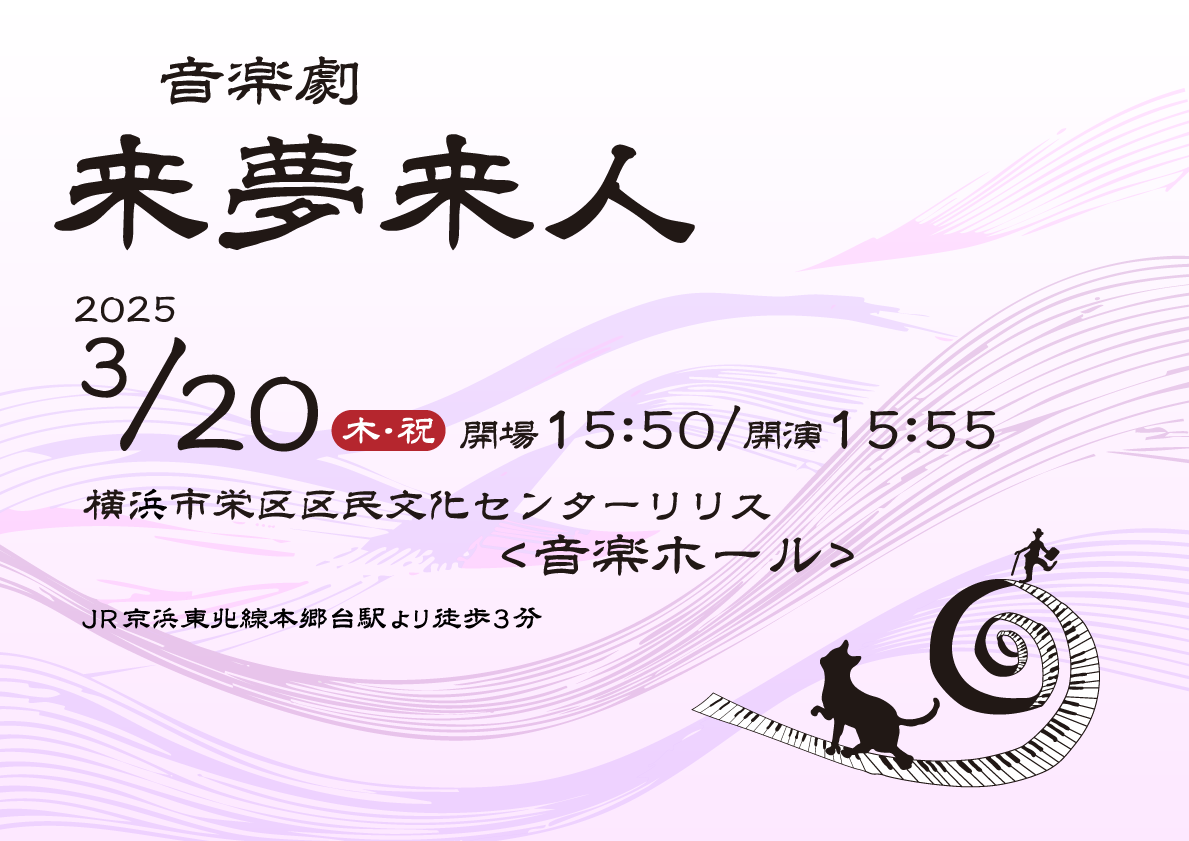
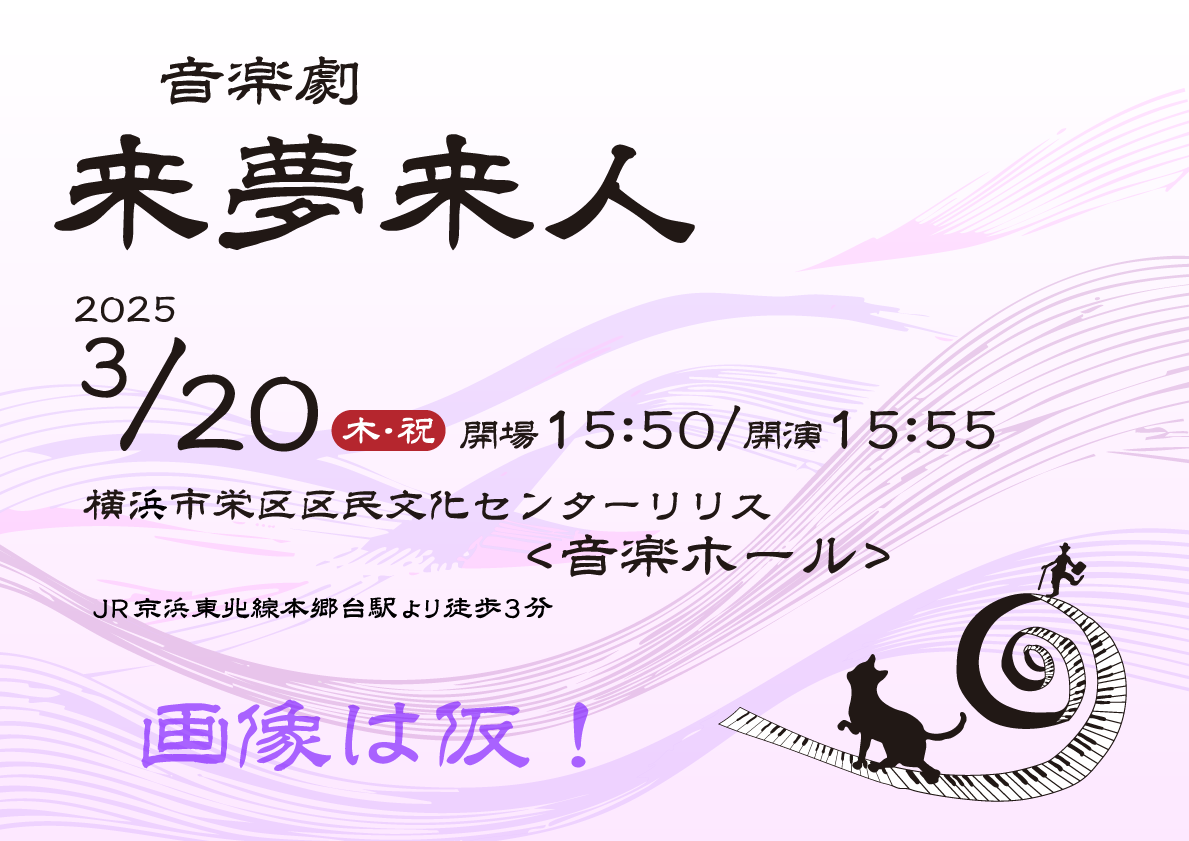
250219

diff --git a/news.html b/news.html
@@ -75,6 +75,17 @@
                         <ul class="latest-news-list">
                             <li id="latest-news-box">
                                 <div id="latest-news-img-box">
+                                    <a href="news_00005.html"><img id="latest-news-img" src="images/news/news_00005.png"></a>
+                                </div>
+                                <div id="latest-news-date">
+                                    <p>2025.02.XX</p>
+                                </div>
+                                <div id="latest-news-ct">
+                                    <a href="news_00005.html">2025年3月20日(木・祝)横浜市栄区にて音楽劇「来夢来人」に出演します</a>
+                                </div>
+                            </li>
+                            <li id="latest-news-box">
+                                <div id="latest-news-img-box">
                                     <a href="news_00004.html"><img id="latest-news-img" src="images/news/news_00004.png"></a>
                                 </div>
                                 <div id="latest-news-date">
